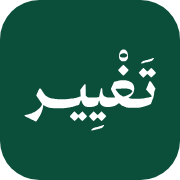
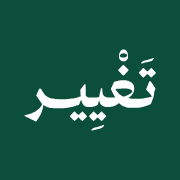
شعار «تغيير» في القائمة وأيقونة الموقع، وطبقة تجربة الجوال
الهوية:
- علامة «تغيير» بيضاء داخل المربّع الأخضر في أعلى القائمة الجانبية
- أيقونة الموقع صارت العلامة بخط أبيض على أخضر، مقروءة حتى 16 بكسل
- أيقونات الأجهزة بمربّع ممتلئ بلا زوايا دائرية، لأن الأنظمة تقصّها بنفسها

تجربة الجوال (كل القواعد داخل استعلامات لا تنطبق فوق 980 بكسل):
- القائمة المنزلقة كانت تغطّي شريطاً فيه زرّ فتحها نفسه فيتعذّر الضغط عليه
- خطوة الأسئلة كانت تمدّ الصفحة أفقياً: عمود الشبكة يُقاس بأكبر محتوى
  فلا تنكمش بطاقة السؤال — ضُبط العمود وصارت الترويسة تلتفّ على سطرين
- التنبيه كان يخرج عن حافة الشاشة: القاعدة المحمولة غيّرت الالتصاق
  دون إلغاء إزاحة التوسيط
- محرّر المستويات: الصف ذو الثمانية أعمدة صار بطاقة مرتّبة
- ترويسة الجلسة وأشرطة الأدوات وترويسة الصفحة أُعيد توزيعها
- النوافذ تلتصق بأسفل الشاشة، والجداول تنزلق أفقياً داخل حاوياتها
- أهداف اللمس 44 بكسل فأكثر، ولا نصّ دون 12 بكسل
- مساحات iPhone الآمنة، و16 بكسل للحقول لمنع تكبير iOS التلقائي

القياس: 276 بلاغاً قبل الإصلاح، 11 بعده (9 منها نصوص ثانوية و2 تراكب
مقصود لقائمة منسدلة). تمرير أفقي: صفر. والكمبيوتر قيس على 1280 و1440
مقابل بناء بلا طبقة الجوال: هندسة العناصر متطابقة تماماً.

Claude-Session: https://claude.ai/code/session_016YQaR1c6PznBqck3XzR4e5

diff --git a/src/components/ui/Wordmark.jsx b/src/components/ui/Wordmark.jsx
@@ -1,0 +1,14 @@
+/* علامة «تغيير» — مسار متجهي واحد يرث لونه من CSS. */
+export default function Wordmark({ className = "", title = "تغيير" }) {
+  return (
+    <svg
+      className={"wm " + className}
+      viewBox="86 95 1180 734"
+      role="img"
+      aria-label={title}
+      focusable="false"
+    >
+      <path fill="currentColor" fillRule="evenodd" d="M686.4 818.5C685.0 815.0 698.0 802.2 706.7 798.6C710.1 797.2 713.8 796.0 714.9 796.0C715.9 796.0 718.7 795.1 721.1 794.0C723.5 792.9 726.6 792.0 728.0 792.0C729.4 792.0 731.8 791.3 733.4 790.5C735.0 789.7 738.1 788.7 740.4 788.3C742.6 788.0 746.3 786.9 748.5 785.9C750.7 784.9 753.3 784.0 754.3 784.0C755.4 784.0 757.6 783.4 759.3 782.6C762.2 781.3 764.6 780.5 778.0 776.9C780.5 776.3 784.6 774.9 787.2 773.9C792.2 771.9 797.6 771.5 799.9 772.9C801.9 774.2 800.8 776.2 792.5 786.4C786.9 793.2 784.4 795.4 779.9 797.4C776.8 798.8 772.8 800.0 771.1 800.0C769.3 800.0 766.6 800.7 765.1 801.5C763.5 802.3 760.3 803.2 757.9 803.6C755.5 803.9 750.9 805.0 747.7 806.1C744.6 807.1 741.0 808.0 739.7 808.0C738.5 808.0 734.8 808.9 731.5 809.9C724.8 812.1 718.9 813.6 711.5 815.2C708.8 815.8 703.9 817.1 700.7 818.1C693.7 820.4 687.2 820.6 686.4 818.5ZM193.0 738.0C191.1 736.9 182.8 732.8 174.5 728.9C148.4 716.5 119.9 702.9 106.2 696.2C102.1 694.2 98.1 691.6 97.3 690.3C94.0 685.4 100.0 681.8 113.7 680.5C120.0 679.8 132.0 677.0 141.5 673.9C144.8 672.9 148.4 672.0 149.5 672.0C150.6 672.0 152.4 671.4 153.5 670.6C154.6 669.9 156.6 668.9 158.0 668.5C159.4 668.1 161.8 667.2 163.5 666.5C172.7 662.5 178.7 659.8 180.5 658.8C181.6 658.1 184.1 656.8 186.0 655.7C208.3 643.8 232.2 622.4 245.6 602.4C249.7 596.2 253.0 590.2 253.0 588.9C253.0 587.7 249.5 581.5 245.2 575.3C241.0 569.0 229.3 551.8 219.3 536.9L201.1 509.9L204.7 502.2C208.9 493.0 209.3 492.1 216.6 475.5C219.7 468.4 222.9 461.6 223.5 460.5C224.2 459.4 225.3 456.8 226.0 454.7C227.7 449.4 229.5 448.0 234.5 448.0C240.8 448.0 241.6 448.6 245.6 455.4C254.7 471.1 267.0 490.0 273.8 499.0C280.4 507.6 291.4 517.2 299.7 521.5C302.9 523.1 306.6 525.3 307.9 526.2C309.2 527.2 311.0 528.0 311.9 528.0C312.8 528.0 315.2 528.9 317.3 530.0C319.3 531.1 321.9 532.0 323.0 532.0C324.1 532.0 327.6 532.9 330.7 534.0C333.9 535.1 337.6 536.0 339.0 536.0C340.4 536.0 345.3 536.8 350.0 537.9C354.7 539.0 364.1 540.4 371.0 541.0C377.9 541.6 386.9 542.5 391.0 543.0C401.0 544.1 452.4 544.1 462.5 542.9C466.9 542.4 477.0 541.5 485.0 541.0C493.0 540.4 504.2 539.0 510.0 537.9C515.8 536.9 522.3 536.0 524.5 536.0C526.7 536.0 531.8 535.1 535.9 534.0C540.0 532.9 544.8 532.0 546.6 532.0C548.3 532.0 552.6 531.1 556.0 530.0C559.4 528.9 563.6 528.0 565.2 528.0C566.8 528.0 569.4 527.3 570.9 526.5C572.5 525.7 575.7 524.8 578.1 524.4C582.6 523.7 592.4 519.8 593.3 518.3C593.6 517.9 593.4 513.5 593.0 508.5C592.5 503.6 591.9 495.0 591.6 489.5C591.3 484.0 590.7 475.4 590.4 470.5L589.8 461.5L593.9 455.5C596.2 452.2 600.8 446.1 604.1 442.0C607.4 437.9 612.6 431.1 615.7 427.0C625.0 414.6 627.8 412.0 632.1 412.0C634.1 412.0 636.2 412.6 636.8 413.2C637.5 414.1 637.9 431.2 638.2 462.0C638.5 508.4 638.6 509.6 640.7 513.5C643.8 519.4 647.7 522.5 655.5 525.6L662.5 528.3L696.5 528.3C731.1 528.3 734.0 528.0 755.5 523.5C757.2 523.1 757.7 521.5 759.3 511.3C760.4 504.8 761.8 496.9 762.6 493.8C763.4 490.6 764.5 485.9 765.0 483.3C768.8 463.9 772.1 449.6 773.1 448.4C774.8 446.3 782.7 446.5 783.8 448.8C784.3 449.7 785.0 457.2 785.4 465.5C786.4 486.1 787.5 492.9 791.2 500.7C796.8 512.8 806.2 520.1 823.5 526.0C830.3 528.4 831.4 528.5 862.8 528.6C885.8 528.6 895.5 528.3 896.6 527.5C898.0 526.5 897.4 525.0 891.9 514.9C882.9 498.9 883.4 499.7 871.6 476.8C865.8 465.5 861.0 455.1 861.0 453.7C861.0 451.4 865.2 441.5 875.9 418.5C889.1 390.3 888.0 392.2 892.5 390.0C894.8 388.9 897.5 388.0 898.6 388.0C899.6 388.0 901.7 387.4 903.2 386.6C904.7 385.8 907.4 384.9 909.2 384.6C911.0 384.2 915.9 383.1 920.0 382.0C927.0 380.3 932.2 379.3 948.0 376.8C956.7 375.5 995.5 376.3 999.5 377.9C1001.1 378.6 1005.0 379.6 1008.1 380.1C1011.3 380.6 1015.1 381.7 1016.6 382.5C1018.2 383.3 1020.0 384.0 1020.7 384.0C1023.0 384.0 1037.3 392.1 1043.0 396.6C1058.5 408.7 1067.0 427.8 1067.0 450.3C1067.0 461.8 1062.6 478.7 1056.7 489.7C1050.0 502.2 1035.6 517.7 1022.1 526.7C1019.3 528.6 1017.0 530.5 1017.0 531.0C1017.0 533.0 1023.5 535.2 1032.2 536.1C1037.2 536.7 1042.4 537.6 1043.9 538.3C1045.6 539.0 1058.5 539.5 1081.3 539.8C1109.9 540.1 1117.4 539.9 1123.8 538.6C1128.0 537.8 1135.3 536.8 1140.0 536.4C1144.7 536.1 1151.8 534.9 1155.9 533.9C1160.0 532.9 1165.3 532.0 1167.6 532.0C1169.9 532.0 1173.6 531.3 1175.9 530.5C1178.2 529.7 1183.6 528.6 1187.8 528.0C1192.0 527.5 1197.7 526.4 1200.4 525.5C1203.1 524.7 1206.9 524.0 1208.8 524.0C1213.4 524.0 1223.1 520.9 1223.7 519.3C1224.4 517.5 1206.9 496.1 1187.2 474.7L1170.8 456.9L1173.5 450.2C1175.0 446.5 1177.5 440.6 1179.0 437.0C1180.5 433.4 1183.4 426.4 1185.5 421.5C1200.6 384.7 1200.3 385.2 1204.3 384.5C1206.5 384.1 1208.8 384.3 1210.4 385.2C1211.9 385.9 1217.6 393.3 1223.8 402.5C1229.8 411.3 1239.0 424.9 1244.3 432.7C1249.6 440.4 1254.0 447.7 1254.0 448.8C1254.0 449.9 1252.5 454.4 1250.6 458.7C1243.1 476.0 1243.0 476.3 1243.0 486.7C1243.0 497.9 1239.5 517.4 1235.7 528.0C1234.3 531.6 1232.4 537.0 1231.3 540.0C1230.2 543.0 1226.9 552.0 1224.0 560.0C1221.2 568.0 1218.1 576.4 1217.2 578.8C1215.8 582.7 1210.4 588.0 1207.7 588.0C1207.3 588.0 1203.3 589.7 1198.7 591.9C1185.8 597.9 1177.2 601.2 1168.0 603.7C1165.0 604.5 1162.0 605.6 1161.5 606.0C1161.0 606.5 1158.7 607.1 1156.5 607.5C1154.3 607.9 1149.9 609.0 1146.7 610.1C1143.6 611.1 1139.7 612.0 1138.1 612.0C1136.5 612.0 1133.4 612.7 1131.1 613.5C1128.8 614.3 1123.9 615.2 1120.2 615.5C1116.5 615.9 1110.3 616.9 1106.5 617.8C1100.5 619.3 1093.6 619.5 1059.5 619.5C1030.1 619.5 1018.6 619.2 1016.0 618.3C1014.1 617.6 1009.0 616.6 1004.7 616.0C1000.5 615.5 995.7 614.4 994.0 613.5C992.4 612.7 990.1 612.0 989.0 612.0C986.9 612.0 980.9 609.8 972.2 605.9C969.9 604.9 967.0 604.0 965.8 604.0C962.3 604.0 950.7 595.4 942.0 586.4C937.6 581.8 933.1 578.0 932.1 578.0C930.1 578.0 928.5 579.0 904.6 595.8C898.7 599.9 890.3 604.0 887.5 604.0C886.4 604.0 884.2 604.7 882.6 605.5C881.0 606.3 877.9 607.3 875.6 607.6C873.4 608.0 868.1 609.1 864.0 610.1C853.6 612.8 812.9 613.0 806.0 610.5C803.5 609.6 800.1 608.5 798.4 608.1C780.3 603.5 763.4 583.8 760.0 563.5C759.3 559.1 758.4 555.1 757.9 554.6C756.6 553.2 754.4 558.9 750.0 575.5C747.7 584.2 745.3 592.1 744.8 593.0C743.4 595.2 725.9 604.0 722.9 604.0C722.1 604.0 720.2 604.7 718.6 605.5C717.0 606.3 713.4 607.4 710.6 607.9C707.8 608.4 702.7 609.5 699.2 610.4C690.1 612.9 648.0 612.3 643.5 609.7C641.9 608.8 640.0 608.0 639.3 608.0C636.2 608.0 626.8 601.8 620.9 595.9C611.3 586.4 605.3 575.0 600.6 557.5C599.5 553.1 598.0 549.5 597.5 549.6C596.2 549.7 593.7 554.7 590.4 563.5C587.5 571.4 583.5 581.8 581.3 587.1C580.1 590.0 578.8 591.0 573.2 593.4C569.5 594.9 564.7 597.0 562.4 598.1C560.1 599.1 557.7 600.0 556.9 600.0C556.2 600.0 553.3 600.8 550.5 601.9C540.9 605.5 532.5 608.0 530.2 608.0C529.0 608.0 526.3 608.7 524.2 609.6C522.2 610.5 518.0 611.5 515.0 612.0C512.0 612.4 506.6 613.5 503.0 614.3C494.7 616.4 486.6 617.7 461.2 621.0C457.0 621.6 450.0 622.5 445.7 623.1C440.8 623.8 421.0 624.0 392.2 623.7C353.0 623.4 345.8 623.1 341.6 621.7C338.9 620.7 334.6 620.0 331.9 620.0C329.3 620.0 324.4 619.1 320.9 618.1C317.4 617.1 312.5 615.9 310.1 615.6C307.7 615.2 304.5 614.3 302.9 613.5C301.4 612.7 299.3 612.0 298.4 612.0C297.5 612.0 294.9 611.2 292.6 610.1C290.3 609.1 286.0 607.2 283.0 605.9C280.0 604.6 274.9 601.4 271.6 598.6C266.1 593.9 265.7 593.7 264.4 595.5C263.6 596.5 263.0 599.1 263.0 601.2C263.0 605.1 259.2 623.9 256.4 633.9C247.6 665.1 230.5 699.5 210.5 726.5C199.0 741.9 199.5 741.6 193.0 738.0ZM518.2 716.7C499.8 698.3 499.0 697.3 499.0 693.6C499.0 689.8 499.8 688.8 517.7 670.8C532.2 656.2 537.0 652.0 539.0 652.0C540.9 652.0 545.1 655.6 557.0 667.5C565.5 676.0 573.2 683.0 574.0 683.0C574.8 683.0 582.5 676.0 591.0 667.5C602.6 655.9 607.1 652.0 608.9 652.0C610.8 652.0 615.8 656.5 630.2 671.2C646.8 688.4 648.9 690.9 649.0 693.9C649.0 696.9 647.2 699.0 629.8 716.6C617.3 729.3 609.9 736.0 608.6 736.0C607.3 736.0 600.7 730.2 590.3 719.8L574.0 703.5L557.7 719.8C547.6 729.9 540.7 736.0 539.5 736.0C538.2 736.0 530.4 728.9 518.2 716.7ZM687.7 717.2C671.7 701.1 668.8 697.8 668.3 694.6C667.7 690.9 667.7 690.9 687.1 671.4C701.4 657.0 707.1 652.0 708.8 652.0C710.6 652.0 715.3 656.1 726.6 667.5C735.0 676.0 742.5 683.0 743.2 683.0C743.9 683.0 751.5 676.0 760.0 667.5C771.9 655.6 776.1 652.0 778.0 652.0C780.0 652.0 784.9 656.3 799.9 671.4C818.7 690.3 819.3 691.0 818.6 694.2C818.0 697.4 817.0 698.5 788.9 727.2C783.0 733.2 779.5 736.0 778.0 736.0C776.3 736.0 771.2 731.5 760.1 720.5C751.6 712.0 743.9 705.0 743.0 705.0C742.2 705.0 734.5 712.0 726.0 720.5C716.1 730.4 709.8 736.0 708.5 736.0C707.2 736.0 699.8 729.3 687.7 717.2ZM981.5 517.5C984.2 516.5 988.3 514.9 990.6 513.9C992.9 512.8 995.2 512.0 995.8 512.0C998.3 512.0 1023.7 499.8 1031.7 494.8C1039.8 489.7 1048.6 480.2 1049.2 475.9C1050.3 468.3 1046.6 463.1 1037.0 458.7C1028.0 454.6 1018.1 452.1 1008.0 451.4C1002.8 451.1 997.4 450.3 996.0 449.8C992.6 448.5 953.1 448.6 948.3 449.9C946.2 450.5 935.3 451.4 924.1 451.9C912.9 452.4 903.3 453.3 902.8 453.8C901.8 454.8 903.6 459.1 907.1 464.0C908.0 465.4 910.9 469.8 913.5 473.9C916.1 478.0 921.7 484.9 925.9 489.3C933.3 497.1 946.1 508.0 947.7 508.0C948.2 508.0 949.2 508.6 949.8 509.2C950.5 509.9 955.0 512.6 959.8 515.2C969.5 520.5 972.2 520.8 981.5 517.5ZM1127.0 333.0C1116.9 322.6 1108.2 313.3 1107.9 312.3C1106.3 308.2 1108.7 305.1 1126.9 286.8C1141.3 272.2 1146.0 268.0 1148.0 268.0C1150.0 268.0 1154.1 271.6 1166.0 283.5C1174.4 292.0 1182.1 299.0 1182.9 299.0C1183.8 299.0 1191.5 292.0 1200.0 283.5C1209.9 273.6 1216.2 268.0 1217.5 268.0C1218.8 268.0 1226.3 274.8 1238.8 287.3C1256.1 304.8 1258.0 306.9 1258.0 310.0C1258.0 313.1 1256.1 315.2 1238.8 332.7C1226.3 345.2 1218.8 352.0 1217.5 352.0C1216.2 352.0 1209.9 346.4 1200.0 336.5C1191.5 328.0 1183.8 321.0 1182.9 321.0C1182.1 321.0 1174.4 328.0 1166.0 336.5C1154.1 348.5 1150.0 352.0 1148.0 352.0C1146.0 352.0 1141.5 347.9 1127.0 333.0ZM947.8 313.2C926.8 292.2 926.0 291.2 926.0 287.5C926.0 283.7 926.8 282.7 947.8 261.8C959.8 249.8 970.2 240.0 971.1 240.0C971.9 240.0 982.4 249.9 994.4 261.9L1016.3 283.9L1015.7 288.1C1015.2 292.1 1013.7 293.9 993.8 313.7C982.0 325.4 971.8 335.0 971.0 335.0C970.2 335.0 959.7 325.2 947.8 313.2ZM1126.4 226.5C1125.0 223.0 1138.0 210.2 1146.7 206.6C1150.1 205.2 1153.8 204.0 1154.9 204.0C1155.9 204.0 1158.7 203.1 1161.1 202.0C1163.5 200.9 1166.6 200.0 1168.0 200.0C1169.4 200.0 1171.8 199.3 1173.4 198.5C1175.0 197.7 1178.1 196.7 1180.4 196.3C1182.6 196.0 1186.3 194.9 1188.5 193.9C1190.7 192.9 1193.3 192.0 1194.3 192.0C1195.4 192.0 1197.6 191.4 1199.3 190.6C1202.2 189.3 1204.6 188.5 1218.0 184.9C1220.5 184.3 1224.6 182.9 1227.2 181.9C1232.2 179.9 1237.6 179.5 1239.9 180.9C1241.9 182.2 1240.8 184.2 1232.5 194.4C1226.9 201.2 1224.4 203.4 1219.9 205.4C1216.8 206.8 1212.8 208.0 1211.1 208.0C1209.3 208.0 1206.6 208.7 1205.1 209.5C1203.5 210.3 1200.3 211.2 1197.9 211.6C1195.5 211.9 1190.9 213.0 1187.7 214.1C1184.6 215.1 1181.0 216.0 1179.7 216.0C1178.5 216.0 1174.8 216.9 1171.5 217.9C1164.8 220.1 1158.9 221.6 1151.5 223.2C1148.8 223.8 1143.9 225.1 1140.7 226.1C1133.7 228.4 1127.2 228.6 1126.4 226.5ZM953.5 205.1C938.1 197.7 930.9 181.2 932.4 157.1C933.9 133.5 944.5 113.6 959.4 106.6C967.5 102.8 977.9 102.9 985.8 106.9C1005.1 116.6 1016.2 147.1 1011.4 177.0C1011.0 179.5 1009.2 184.7 1007.3 188.7C1003.7 196.5 999.5 200.7 990.5 205.4C985.9 207.8 984.6 208.0 972.5 208.0C960.2 208.0 959.2 207.8 953.5 205.1ZM983.2 174.0C986.6 172.9 990.2 172.0 991.0 172.0C993.5 171.9 1001.8 165.2 1003.6 161.9C1008.3 152.7 1000.6 143.2 984.9 138.9C974.1 135.9 964.6 136.8 954.0 141.8C945.4 145.9 938.2 155.9 939.5 161.9C941.9 172.7 966.0 179.4 983.2 174.0Z" />
+    </svg>
+  );
+}

diff --git a/src/styles/admin.css b/src/styles/admin.css
@@ -105,6 +105,7 @@ select.inp{cursor:pointer;appearance:none;background-repeat:no-repeat;background
 .brandbox{display:flex;align-items:center;gap:10px;padding:4px 8px 14px;overflow:hidden}
 .brandbox .bm{width:34px;height:34px;border-radius:10px;background:var(--brand);display:grid;place-items:center;flex:none}
 .brandbox .bm svg{width:18px;height:18px;color:#fff}
+.brandbox .bm svg.wm{width:23px;height:auto;color:#fff}
 .brandbox b{font-size:15px;font-weight:700;color:var(--brand-800);line-height:1.2;display:block;white-space:nowrap}
 .brandbox span{font-size:11px;color:var(--text-3);white-space:nowrap}
 .navgrp{font-size:10.5px;font-weight:700;color:var(--text-3);padding:12px 10px 5px;letter-spacing:.4px;white-space:nowrap}
@@ -486,3 +487,195 @@ mark{background:var(--gold-100);color:inherit;border-radius:3px;padding:0 2px}
 .pickopt.sel .pck svg{opacity:1}
 
 @media (prefers-reduced-motion:reduce){*{animation-duration:.01ms !important;transition-duration:.01ms !important}}
+
+/* ==========================================================
+   طبقة الجوال
+   تُضاف فوق التصميم القائم ولا تمسّ أي قاعدة للكمبيوتر:
+   كل ما يلي داخل استعلامات لا تنطبق فوق 980 بكسل.
+   ========================================================== */
+
+/* ---------- القائمة الجانبية المنزلقة ----------
+   كانت تُخفى بإزاحة موجبة، والقائمة مثبّتة عند الحافة اليسرى في RTL،
+   فكانت الإزاحة تدفعها إلى داخل الشاشة فتغطّي شريطاً بعرض 88 بكسل على
+   اليمين — وفيه زرّ فتح القائمة نفسه، فيتعذّر الضغط عليه على الجوال. */
+@media (max-width:980px){
+  .sidebar{
+    width:min(86vw,300px);
+    transform:translateX(-100%);
+    visibility:hidden;
+    pointer-events:none;
+    padding-top:calc(14px + env(safe-area-inset-top));
+    padding-bottom:calc(14px + env(safe-area-inset-bottom));
+    overflow-y:auto;
+    overscroll-behavior:contain;
+  }
+  .sidebar.open{ transform:none; visibility:visible; pointer-events:auto; }
+
+  .mobar{
+    padding-top:calc(10px + env(safe-area-inset-top));
+    padding-inline:max(14px, env(safe-area-inset-right)) max(14px, env(safe-area-inset-left));
+  }
+  .pagehead{ top:auto; }
+  .content{ padding-bottom:calc(70px + env(safe-area-inset-bottom)); }
+}
+
+/* ---------- مقاسات اللمس وقابلية القراءة ---------- */
+@media (max-width:860px){
+  /* 16 بكسل تمنع تكبير iOS التلقائي عند التركيز على الحقول */
+  .inp{ min-height:44px; font-size:16px; }
+  .inp.sm{ min-height:44px; }
+  textarea.inp{ min-height:96px; }
+  select.inp{ min-height:44px; font-size:16px; }
+
+  .btn{ min-height:46px; padding-inline:20px; }
+  .btn.sm{ min-height:44px; padding:8px 16px; font-size:14px; }
+  .btn.xs{ min-height:38px; padding:6px 14px; }
+  .iconbtn{ width:44px; height:44px; }
+  .navitem{ min-height:48px; }
+  .step{ min-height:44px; }
+  .seg button{ min-height:44px; min-width:48px; }
+  .tabs button,.tabs a{ min-height:48px; display:inline-flex; align-items:center; }
+  .menu .pop button{ min-height:44px; }
+  .crumb button{ min-height:44px; display:inline-flex; align-items:center; }
+  .closex{ width:48px; height:48px; }
+  .cel{ min-width:44px; min-height:44px; }
+
+  /* لا نصّ تحت 12 بكسل */
+  .navgrp,
+  .navitem .count,
+  .brandbox span,
+  .kpi .s,
+  .sstat span,
+  .qcard .when,
+  .feedrow .who span,
+  .feedrow .when,
+  .quote .who,
+  .obar,
+  .obar .ov,
+  .axnote,
+  .bandhead,
+  .mx thead th,
+  .step .n,
+  .rk,
+  .rkshare,
+  .dlrow .pc{ font-size:12px; }
+
+  /* نصوص الرسوم تُقاس بوحدات viewBox ثم تُصغَّر مع الرسم،
+     فتُكبَّر هنا ليبقى المقروء على الجوال قريباً من 11 بكسل */
+  svg .ax{ font-size:15px; }
+  svg .vl{ font-size:15px; }
+
+  /* بقية النصوص الصغيرة: أي شيء دون 12 بكسل يصعب قراءته على الجوال */
+  .chip,
+  .legend,
+  .heatlegend,
+  .typecard span,
+  .pickopt .ptx span,
+  .qdet .qdh .pos,
+  .quote .who,
+  .phone .pnum,
+  .bandline div{ font-size:12px; }
+
+  /* فتات الطريق: الارتفاع صار 44، والعرض يحتاج حشواً ليبلغها */
+  .crumb button{ padding-inline:8px; min-width:44px; justify-content:center; }
+
+  /* الجداول تنزلق أفقياً بسلاسة بدل أن تمدّ الصفحة */
+  .tblwrap{ -webkit-overflow-scrolling:touch; overscroll-behavior-x:contain; }
+  .tbl{ min-width:560px; }
+  .mx{ min-width:520px; }
+
+  /* لا يُقطع حقل مركَّز خلف الترويسة اللاصقة أو لوحة المفاتيح */
+  .inp, .opt, .pickopt{ scroll-margin-block:90px 120px; }
+}
+
+/* ---------- إعادة ترتيب العناصر على شاشة الهاتف ---------- */
+@media (max-width:640px){
+  /* ترويسة الصفحة: العنوان سطر، والإجراءات سطر كامل العرض */
+  .pagehead{ padding-block:10px; gap:8px; }
+  .pagehead > .row{ margin-inline-start:0; width:100%; }
+  .pagehead > .row .btn{ flex:1; }
+
+  /* شريط الأدوات: كل عنصر بعرض كامل بدل ازدحام سطر واحد */
+  .toolbar{ gap:8px; }
+  .toolbar .search{ max-width:none; min-width:0; flex:1 1 100%; }
+  .toolbar select.inp{ width:100% !important; min-width:0 !important; flex:1 1 100%; }
+  .toolbar .seg{ margin-inline-start:auto; }
+
+  /* ترويسة الجلسة: الرمز والعنوان فوق، والأزرار شبكة من عمودين */
+  .shead{ padding:14px; }
+  .shead .row.sp{ margin-inline-start:0; width:100%; display:grid;
+    grid-template-columns:repeat(2,minmax(0,1fr)); gap:8px; }
+  .shead .row.sp .btn{ width:100%; }
+
+  /* محرّر المستويات: الصف الواحد كان ثماني أعمدة — يصير بطاقة مرتّبة */
+  .bandhead{ display:none; }
+  .band{
+    grid-template-columns:repeat(2,minmax(0,1fr));
+    gap:8px; padding:12px; margin-bottom:12px;
+    border:1px solid var(--border); border-radius:var(--r); background:var(--surface);
+  }
+  .band .inp:nth-child(3){ grid-column:1 / -1; }
+  .band textarea.inp{ grid-column:1 / -1; }
+  .band input[type=color]{ width:100%; height:44px; }
+
+  /* خيارات السؤال: النص سطر والدرجة والحذف سطر */
+  .optrow{ flex-wrap:wrap; }
+  .optrow .inp.grow{ flex:1 1 100%; order:2; }
+  .optrow .inp.score{ order:3; }
+
+  /* البطاقات والمؤشرات */
+  .kpis{ grid-template-columns:repeat(auto-fit,minmax(150px,1fr)); gap:10px; }
+  .chartgrid{ grid-template-columns:minmax(0,1fr); }
+  .sgrid,.qgrid{ grid-template-columns:minmax(0,1fr); }
+
+  /* النافذة المنبثقة تلتصق بأسفل الشاشة — أقرب لليد */
+  .modal{ align-items:flex-end; padding:0; }
+  .modal .box{
+    max-width:none; width:100%;
+    border-radius:var(--r-lg) var(--r-lg) 0 0;
+    padding:20px 18px calc(20px + env(safe-area-inset-bottom));
+    max-height:88svh; overflow-y:auto;
+  }
+  .modal .box.wide{ max-width:none; }
+  .picklist{ max-height:46svh; }
+
+  /* التنبيه فوق شريط النظام السفلي */
+  .toast{ bottom:calc(18px + env(safe-area-inset-bottom));
+    inset-inline:12px 12px; max-width:none; width:auto;
+    transform:translateY(110px); }
+  .toast.on{ transform:translateY(0); }
+
+  /* قائمة البطاقة تُفتح بعرض مريح دون أن تتجاوز الشاشة */
+  .menu .pop{ min-width:min(70vw,230px); }
+
+  /* شاشة العرض */
+  #proj{ padding:calc(20px + env(safe-area-inset-top)) 18px calc(20px + env(safe-area-inset-bottom)); }
+}
+
+/* ---------- أضيق الهواتف ---------- */
+@media (max-width:380px){
+  .shead .row.sp{ grid-template-columns:minmax(0,1fr); }
+  .pagehead > .row{ flex-wrap:wrap; }
+  .band{ grid-template-columns:minmax(0,1fr); }
+  .kpis{ grid-template-columns:minmax(0,1fr); }
+}
+
+/* شبكة أمان: لا تمرير أفقي للصفحة مهما حدث، مع إبقاء الجداول قابلة للتمرير */
+/* ---------- بطاقات بناء الأسئلة ---------- */
+@media (max-width:980px){
+  /* العمود كان يُقاس بأكبر محتوى فيتجاوز عرض الشاشة */
+  .qbuild{ grid-template-columns:minmax(0,1fr); }
+}
+
+@media (max-width:560px){
+  /* ترويسة السؤال: العنوان سطر، والنوع وأزرار التحكم سطر تحته */
+  .qb .qhead{ flex-wrap:wrap; row-gap:4px; }
+  .qb .qt{ flex:1 1 55%; }
+  .qb .qhead .chip{ order:10; }
+  .qb .qhead .iconbtn{ order:11; }
+  .qb .qhead .caret{ order:12; margin-inline-start:auto; }
+}
+
+@media (max-width:980px){
+  .admin-root{ overflow-x:clip; }
+}

diff --git a/src/styles/participant.css b/src/styles/participant.css
@@ -243,3 +243,35 @@ canvas.confetti{position:fixed;inset:0;width:100%;height:100%;pointer-events:non
 @media (prefers-reduced-motion:reduce){
   *{animation-duration:.01ms !important;animation-iteration-count:1 !important;transition-duration:.01ms !important}
 }
+
+/* ==========================================================
+   طبقة الجوال لصفحة المشارك
+   لا تمسّ شيئاً فوق 860 بكسل.
+   ========================================================== */
+@media (max-width:860px){
+  /* 16 بكسل تمنع تكبير iOS عند التركيز على الحقل */
+  .input, .ta{ font-size:16px; min-height:52px; }
+  .input.code{ font-size:clamp(26px,9vw,34px); }
+  .ta{ min-height:140px; }
+
+  .btn{ min-height:52px; }
+  .btn-ghost,.btn-scan{ min-height:48px; }
+  .opt{ min-height:56px; }
+  .link{ min-height:44px; display:inline-flex; align-items:center; }
+
+  /* مساحة آمنة أسفل الشاشة وأعلاها */
+  .stage{
+    padding-top:calc(clamp(16px,4vw,34px) + env(safe-area-inset-top));
+    padding-bottom:calc(28px + env(safe-area-inset-bottom));
+  }
+  .sheet .scan-card{ padding-bottom:calc(16px + env(safe-area-inset-bottom)); }
+
+  /* الحقل المركَّز لا يختفي خلف لوحة المفاتيح */
+  .input, .ta, .opt{ scroll-margin-block:24px 140px; }
+}
+
+@media (max-width:380px){
+  .opts.tf{ grid-template-columns:1fr; }
+  .btn-row{ flex-direction:column; }
+  .btn-row .btn{ width:100%; }
+}

diff --git a/src/layouts/AdminLayout.jsx b/src/layouts/AdminLayout.jsx
@@ -3,6 +3,7 @@
 import { createContext, useCallback, useContext, useEffect, useMemo, useState } from "react";
 import { NavLink, Outlet, useLocation, useNavigate } from "react-router-dom";
 import Icon from "../components/ui/Icon.jsx";
+import Wordmark from "../components/ui/Wordmark.jsx";
 import { useAuth } from "../lib/auth.jsx";
 import { useAdminData } from "../hooks/useAdminData.jsx";
 import useDocumentTitle from "../hooks/useDocumentTitle.js";
@@ -59,7 +60,7 @@ export default function AdminLayout() {
 
           <aside className={"sidebar" + (navOpen ? " open" : "")}>
             <div className="brandbox">
-              <div className="bm"><Icon name="refresh" /></div>
+              <div className="bm"><Wordmark /></div>
               <div><b>منصة تغيير</b><span>إدارة التغيير والثقافة المؤسسية</span></div>
             </div>
 
